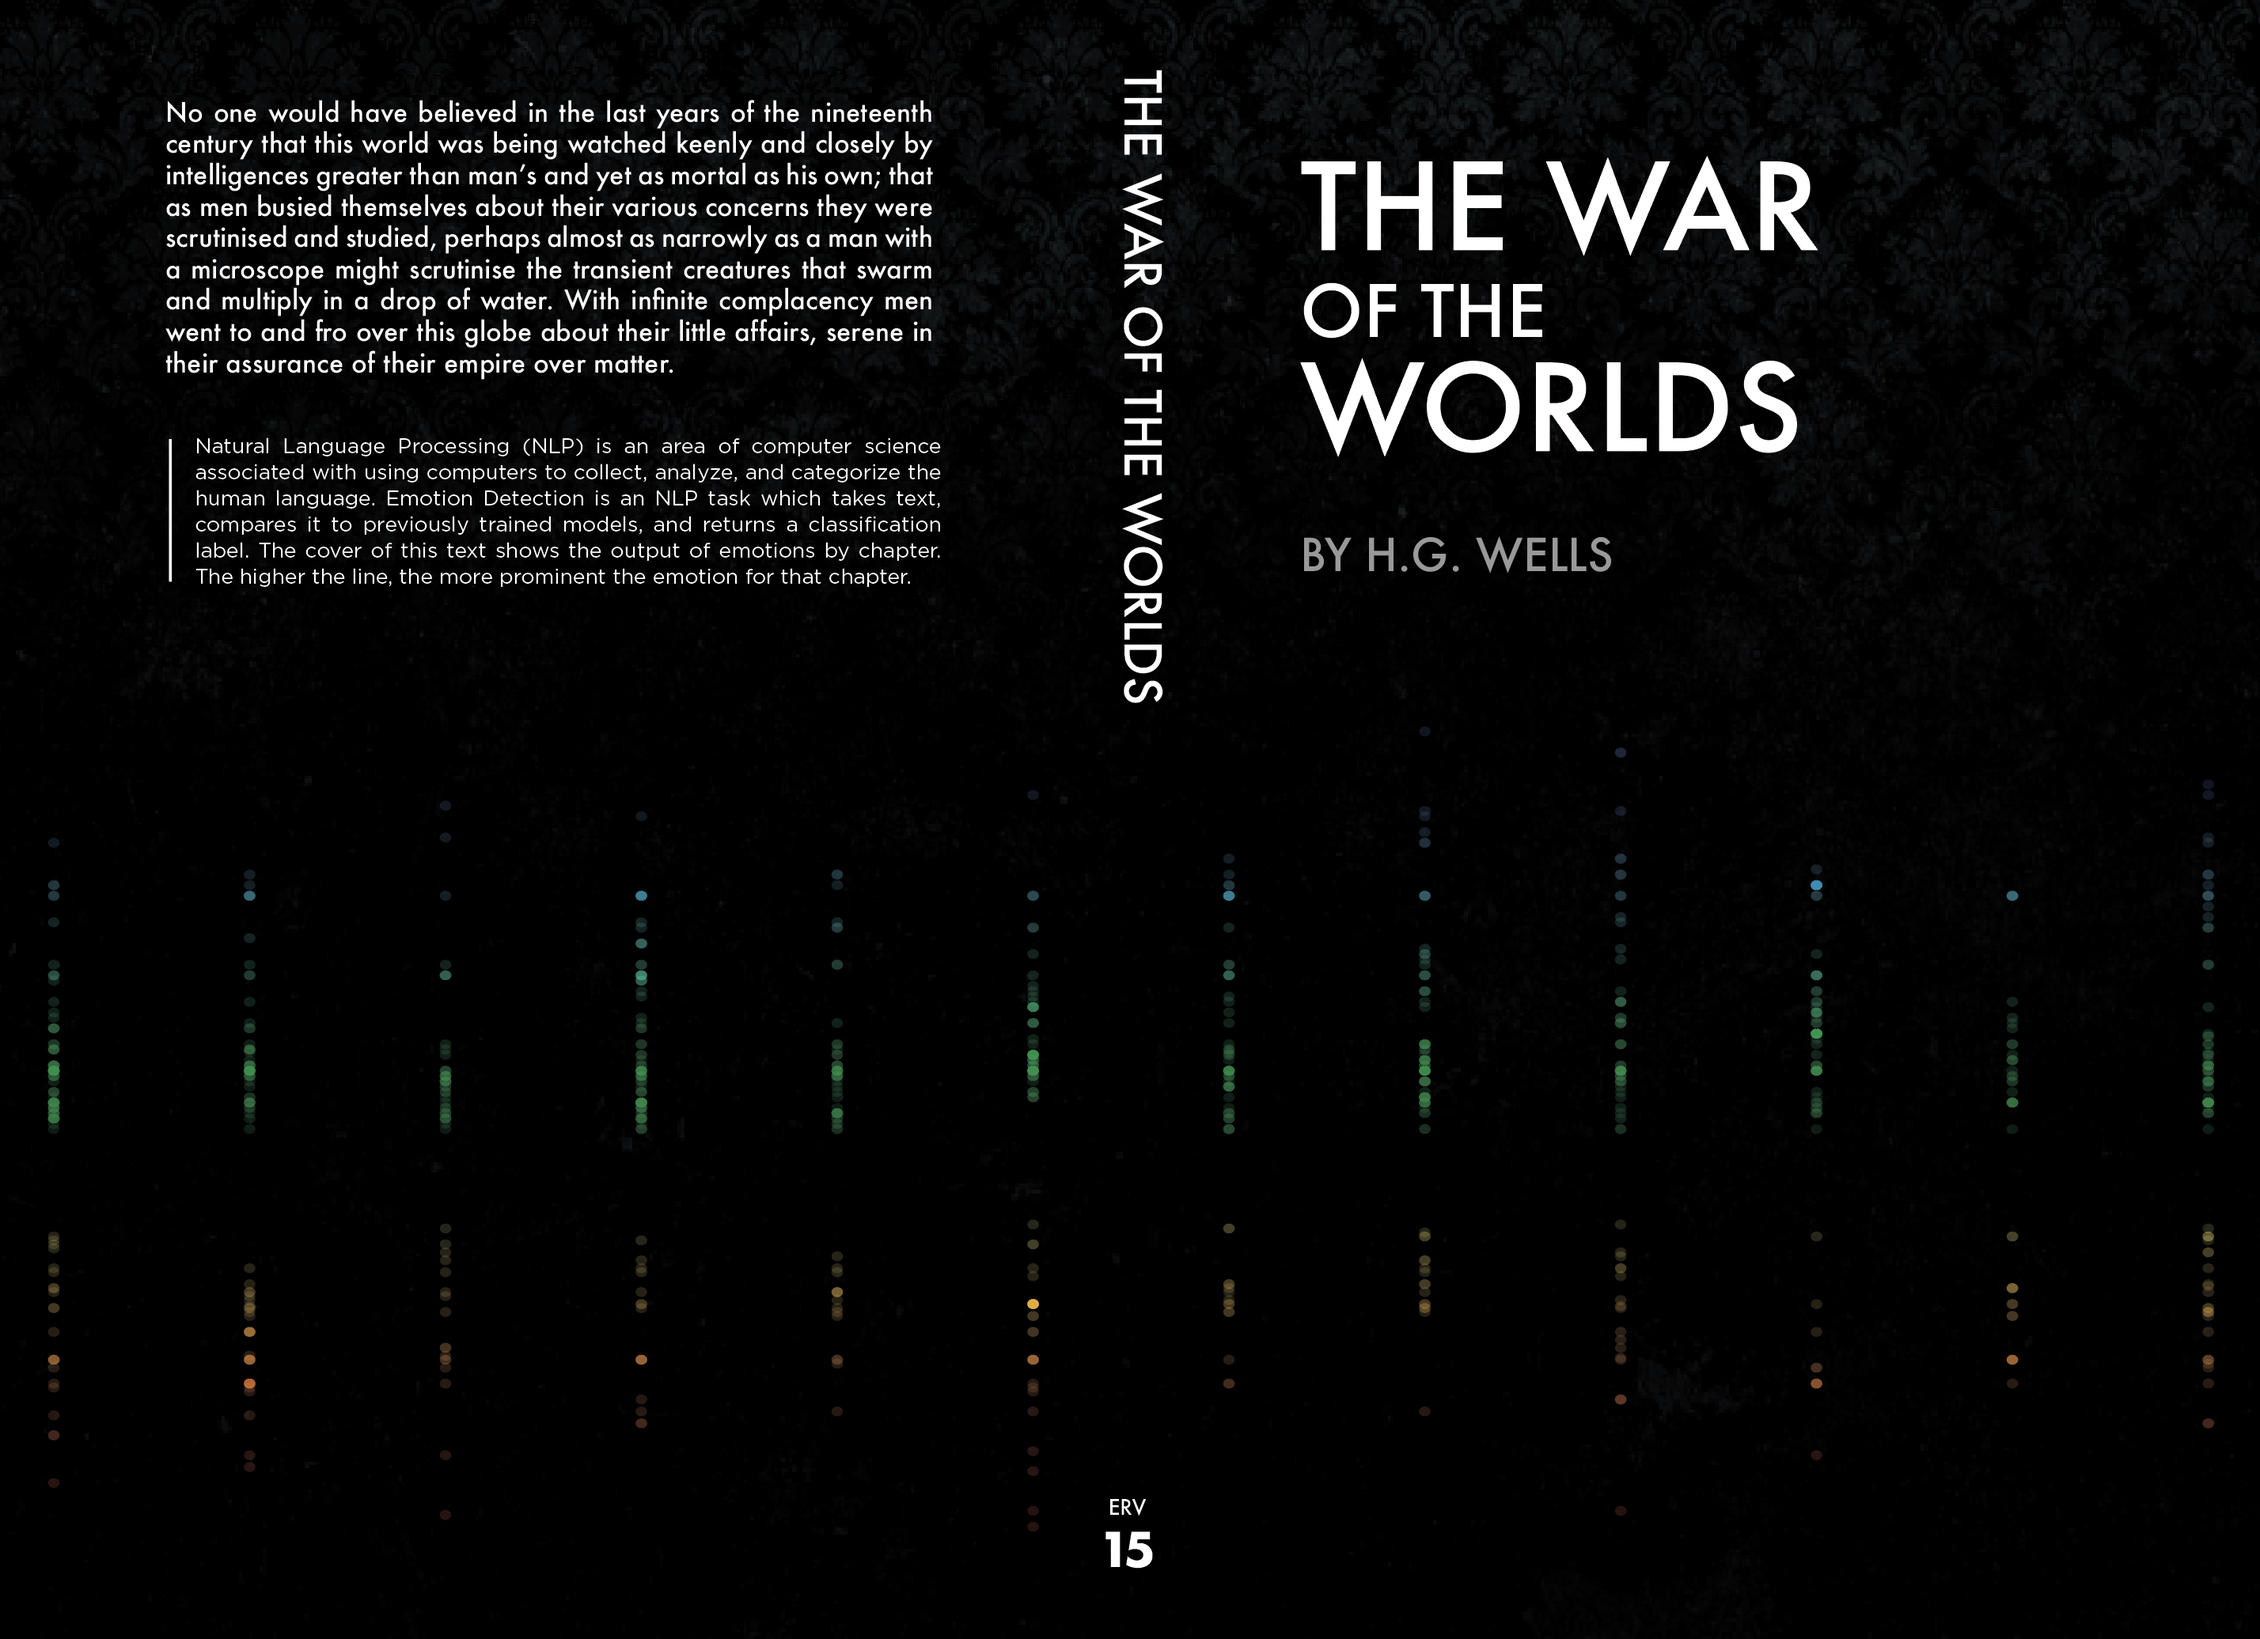
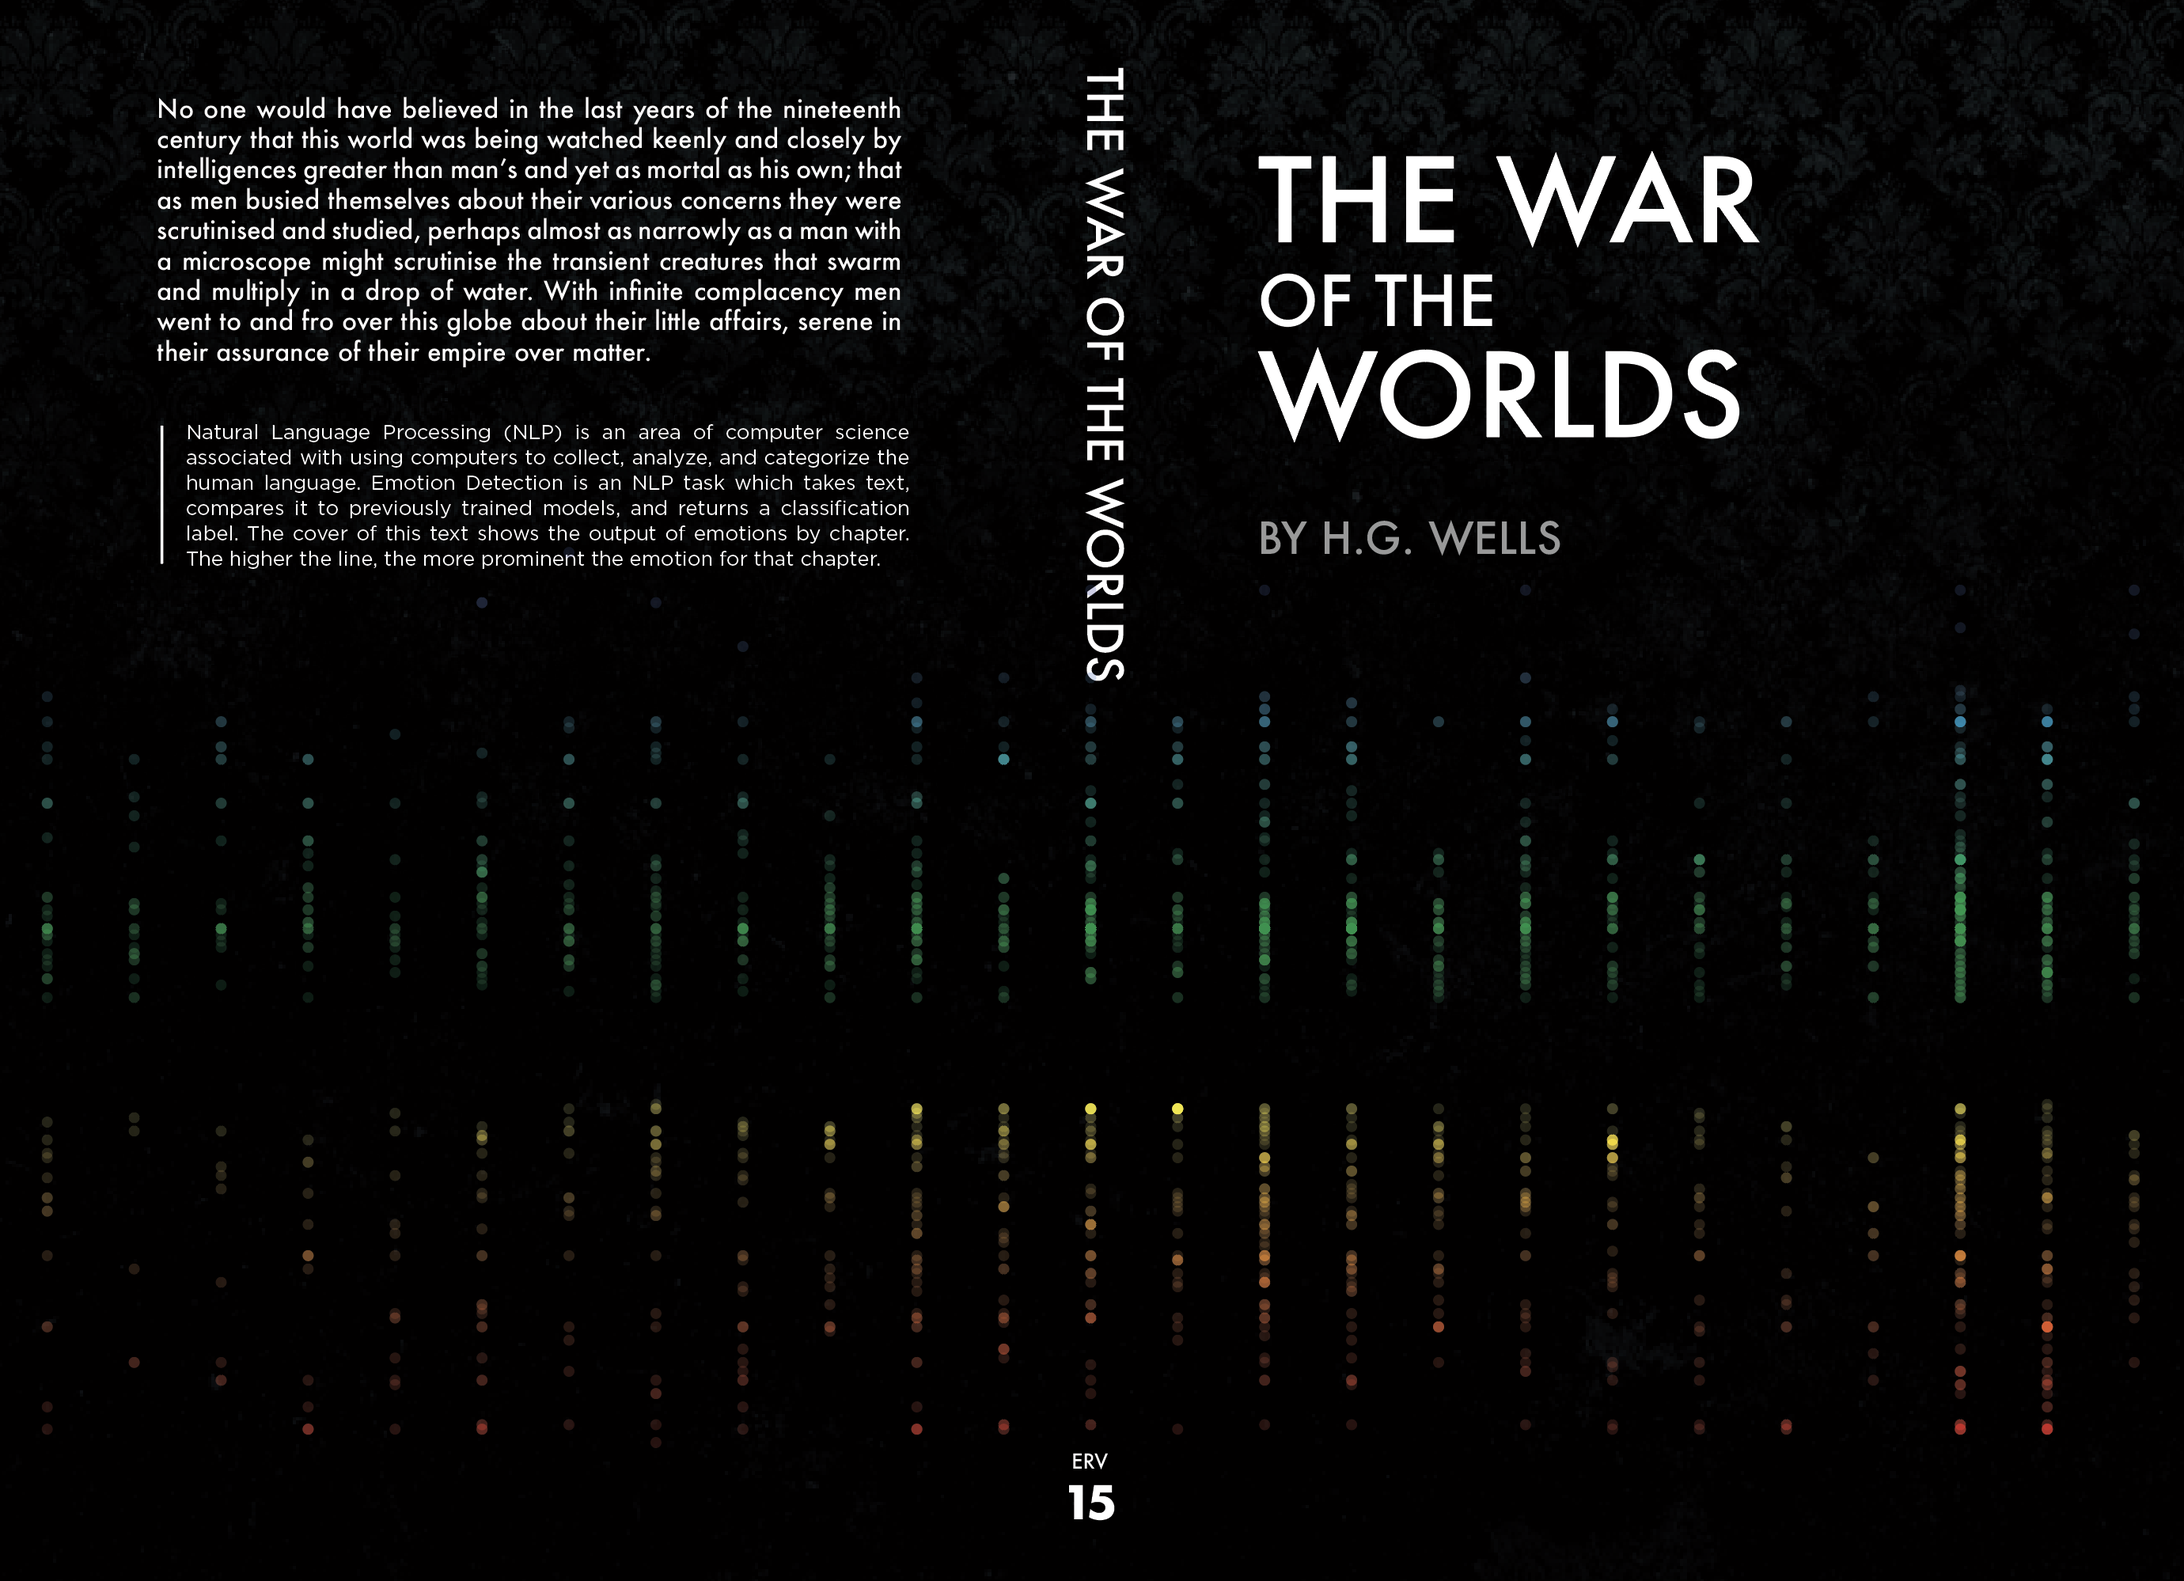
cleaning up styles, adding book renderings

diff --git a/vue/src/components/Compare.vue b/vue/src/components/Compare.vue
@@ -5,7 +5,7 @@
     <div class="subcontainer vertical-center flex-container">
       <div class="large-screens">
         <div class="flex-50">
-          <h4>Select</h4>
+          <h4>Select a title:</h4>
           <select v-model="book" name="" id="">
             <option value="IBM/alice-in-wonderland-TA.json">
               Alice in Wonderland
@@ -64,7 +64,7 @@
               The Adventures of Sherlock Holmes
             </option>
           </select>
-          <p class="description">{{ sentence.text }}</p>
+          <p class="quote">{{ sentence.text }}</p>
           <p></p>
           <div>
             <input
@@ -155,7 +155,7 @@
           </div>
         </div>
         <div class="flex-50">
-          <h4>Viz</h4>
+          <!-- <h4>Viz</h4> -->
           <p class="description">
             <Radar :sentence="sentence" :userTones="userTones" />
           </p>
@@ -244,10 +244,18 @@ img {
 .description {
   font-weight: 200;
   font-size: 14px;
-  width: 75%;
-  max-width: 460px;
+//   width: 100%;
+  max-width: 600px;
   margin: 0 auto;
   text-align: justify;
   margin-bottom: 60px;
+}
+.quote {
+  font-size: 28px;
+  font-family: Baskerville, "DM Serif Display";
+  font-weight: 100;
+  margin-top: 20px;
+  padding: 40px 25%;
+  text-align: center;
 }
 </style>

diff --git a/vue/src/components/charts/VariableArea.vue b/vue/src/components/charts/VariableArea.vue
@@ -16,7 +16,7 @@ const MCKeys = [
   "disgust",
 ].reverse();
 
-const PDKeys = ["Angry", "Happy", "Fear", "Excited", "Sad", "Bored"].reverse();
+const PDKeys = ["Angry", "Excited", "Happy", "Fear", "Sad", "Bored"].reverse();
 
 const colorMap = {
   trust: "#abdda4",
@@ -27,12 +27,14 @@ const colorMap = {
   surprise: "#66AADD",
   fear: "#66c2a5",
   anger: "#d53e4f",
-  Bored: "#DB95D2", //change?
+  // Bored: "#DB95D2", //change?
+  Bored: "#986c9b",
   Happy: "#fee08b",
+  // Excited: "#66AADD", //change?
+  Excited: "#f7a83b", 
   Angry: "#d53e4f",
   Fear: "#66c2a5",
   Sad: "#3288bd",
-  Excited: "#66AADD", //change?
 };
 
 export default {

diff --git a/vue/src/components/RainbowBook.vue b/vue/src/components/RainbowBook.vue
@@ -25,40 +25,4 @@ img {
 .book-cover {
   text-align: left;
 }
-.gradient-group {
-  margin: 0 auto;
-  width: 400px;
-}
-.label {
-  width: 300px;
-  text-align: left;
-  padding-bottom: 0px;
-}
-.gradient {
-  width: 300px;
-  height: 620px;
-  background: linear-gradient(
-    120deg,
-    #64368f 10.36%,
-    #00b4df 34.44%,
-    #b5dcb7 45.27%,
-    #f8ec2d 77.75%,
-    #ef673c 89.58%,
-    #eb3c39 100%
-  );
-  float: left;
-}
-.text {
-  float: left;
-  padding-left: 20px;
-  text-align: left;
-  p,
-  span {
-    font-size: 12px;
-  }
-}
-span.thin {
-  font-weight: 200;
-  color: #999;
-}
 </style>

diff --git a/vue/src/components/IBMBook.vue b/vue/src/components/IBMBook.vue
@@ -1,11 +1,13 @@
 <template>
-  <div class="container">
+  <div class="container lgray-container">
     <h2>Book Rendering</h2>
     <h3>
       IBMBook Watson Suite Tone Analyzer evaluates emotions based on sentence
       level, up to the first 100 sentences in a document.
     </h3>
-    <div class="subcontainer vertical-center">Image goes here</div>
+    <div class="subcontainer vertical-center">
+      <img src="@/assets/pride-and-prejudice.png" alt="Pride and Prejudice">
+    </div>
   </div>
 </template>
 

diff --git a/vue/src/components/charts/Stacks.vue b/vue/src/components/charts/Stacks.vue
@@ -13,7 +13,7 @@ const colors = {
   fear: d3.interpolateLab("#a1d99b", "#A0CE69", "#C4F47F"), // Dark Green
   anger: d3.interpolateLab("#fee0d2", "#fc9272", "#de2d26"), // Red
   confident: d3.interpolateLab("#ffffc8", "#A0D568", "#ffff5a"), // Green
-  none: d3.interpolateLab("#eeeeee"),
+  none: d3.interpolateLab("white"),
   //"#f0f0f0","#bdbdbd","#636363" Grey
 };
 

diff --git a/vue/src/components/EmotionModels.vue b/vue/src/components/EmotionModels.vue
@@ -32,7 +32,7 @@
             The following diagram is a
             <a
               target="_blank"
-              href="https://observablehq.com/d/9d1ae0157e8ef4bd"
+              href="https://observablehq.com/@tiffylou/feeling-wheel"
               >rendering</a
             >
             of the Feeling Wheel by Gloria Wilcox. Wilcox uses four basic

diff --git a/vue/src/components/charts/Gradient.vue b/vue/src/components/charts/Gradient.vue
@@ -170,7 +170,7 @@ function emptyTones() {
 <style scoped>
 .gradient {
   width: 300px;
-  height: 620px;
+  height: calc(100vh - 360px);
   background: linear-gradient(
     120deg,
     #64368f 10.36%,

diff --git a/vue/src/assets/css/global.css b/vue/src/assets/css/global.css
@@ -52,7 +52,7 @@ p {
   font-weight: 500;
 }
 .container {
-  height: 100vh;
+  min-height: 100vh;
   position: relative;
 }
 .white-container {
